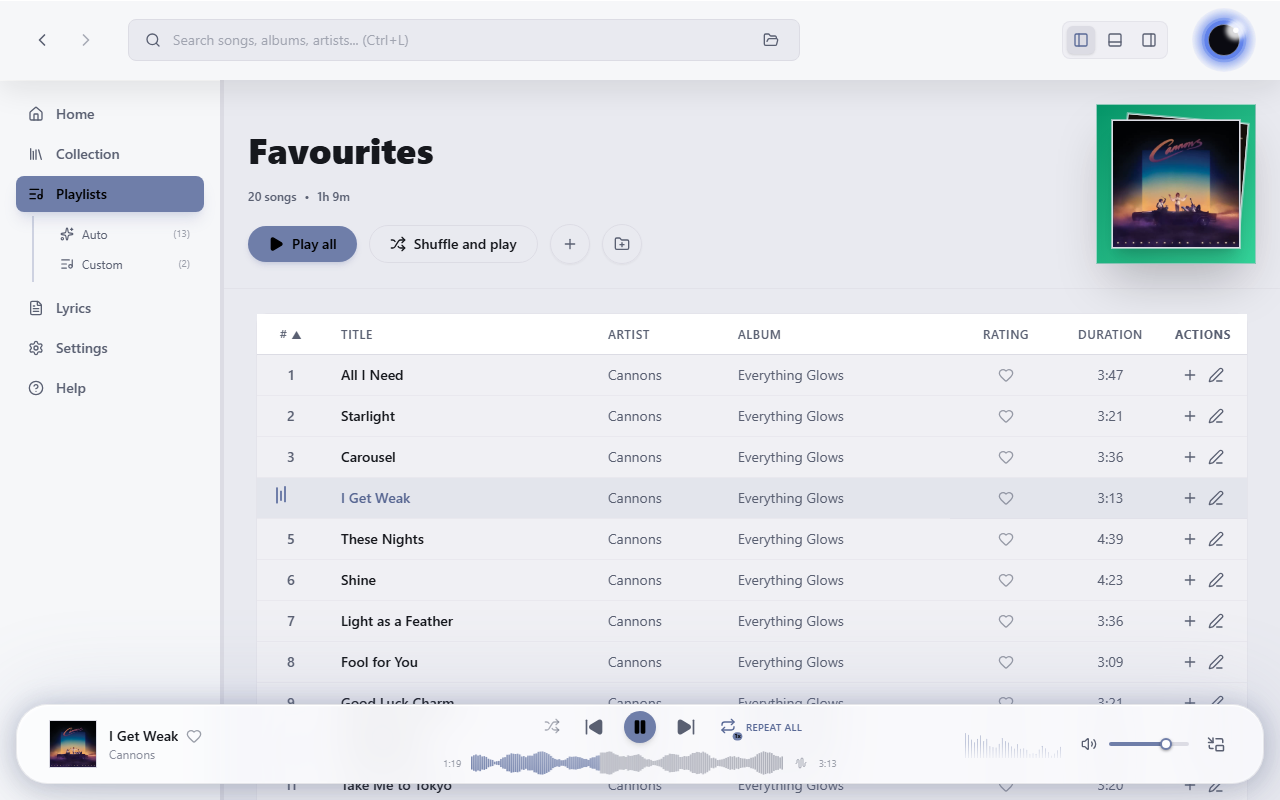
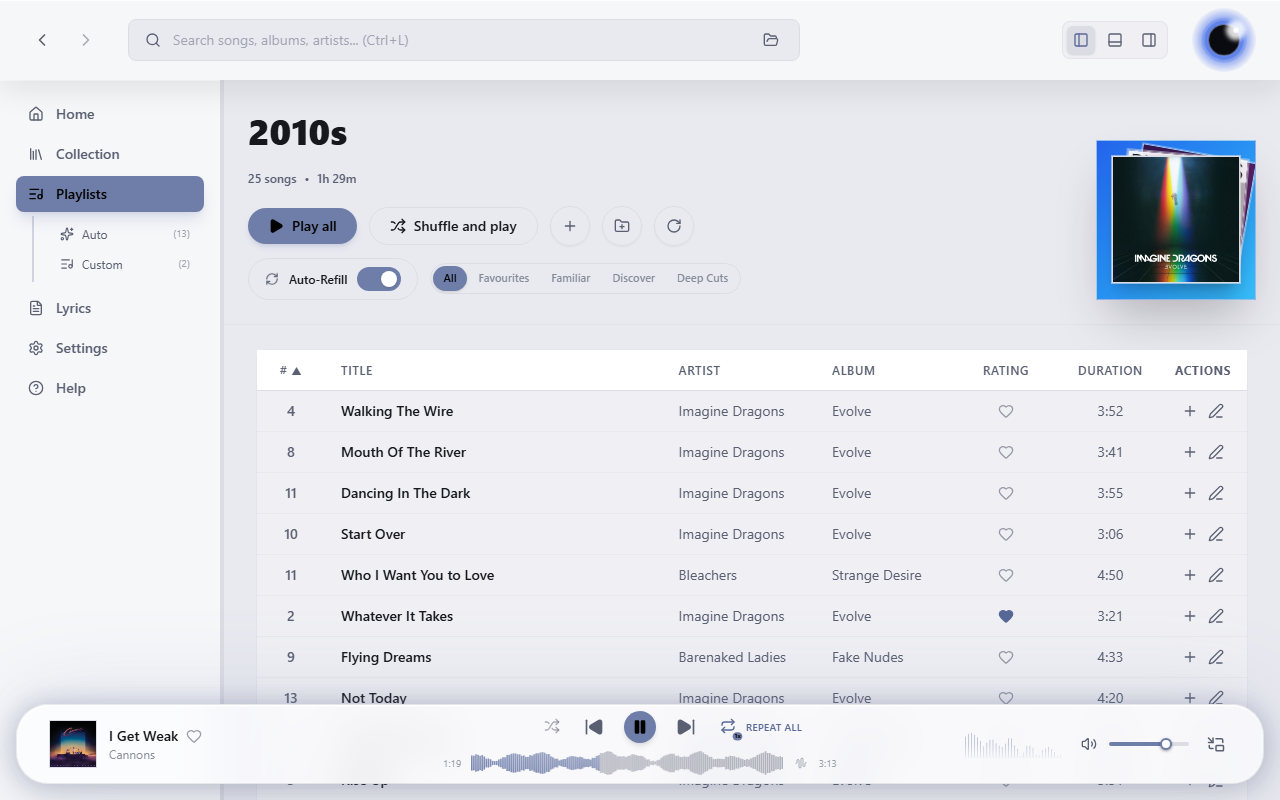
docs: update screenshots

diff --git a/scripts/take-screenshots.ts b/scripts/take-screenshots.ts
@@ -363,10 +363,7 @@ async function main() {
       await page.waitForTimeout(400);
     },
     "click-playlist": async (page) => {
-      await page.evaluate(() => {
-        const card = document.querySelector(".grid > div, .playlists-scroll-container li button");
-        if (card) (card as HTMLElement).click();
-      });
+      await page.getByRole("button", { name: "2010s", exact: true }).click();
       await page.waitForTimeout(400);
     },
     "click-smart-playlist": async (page) => {
